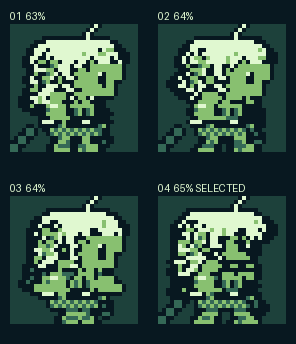
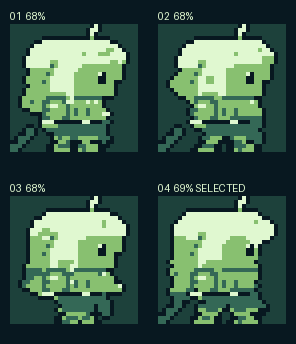
Clean up the 32px knight color planes

diff --git a/sw.js b/sw.js
@@ -1,5 +1,5 @@
 // オフラインで遊べるようにファイルをキャッシュ。更新したら VERSION を上げる
-const VERSION = "mk-v6-k2-sprites-cc4c1e308c3e";
+const VERSION = "mk-v6-k2-sprites-91ed4acbcbe7";
 const FILES = ["./", "index.html", "manifest.webmanifest", "js/sprites.js", "js/audio.js", "js/level.js", "js/game.js",
   "icons/icon-192.png", "icons/icon-512.png", "assets/overrides.json",
   './assets/player_idle.png',

diff --git a/tools/hires_parts.py b/tools/hires_parts.py
@@ -137,6 +137,91 @@ def creature_details(frame, name):
     return result
 
 
+def neighbors(array, pad):
+    padded = np.pad(array, 1, constant_values=pad)
+    return np.stack((padded[1:-1, :-2], padded[1:-1, 2:],
+                     padded[:-2, 1:-1], padded[2:, 1:-1]))
+
+
+def fill_knight_outline(parts, target):
+    """Recover the material under dark source lines; redraw the contour later."""
+    filled = parts.copy()
+    for y, x in zip(*np.nonzero(parts == "O")):
+        window = parts[max(0, y - 2):y + 3, max(0, x - 2):x + 3]
+        options = "HF" if y < 18 else "PCLTS"
+        if y >= 28:
+            options += "K"
+        counts = [np.count_nonzero(window == part) for part in options]
+        if max(counts):
+            filled[y, x] = options[int(np.argmax(counts))]
+        elif target[y, x] in options:
+            filled[y, x] = target[y, x]
+        else:
+            filled[y, x] = "H" if y < 18 else ("C" if y < 24 else "T")
+    return filled
+
+
+def checker_locations(frame):
+    a, b, c, d = frame[:-1, :-1], frame[:-1, 1:], frame[1:, :-1], frame[1:, 1:]
+    return np.argwhere((a > 0) & (b > 0) & (a == d) & (b == c) & (a != b))
+
+
+def remove_checkers(frame, protected):
+    """Merge alternating 2x2 dots, favoring a flat run away from small landmarks."""
+    result = frame.copy()
+    while True:
+        original = checker_locations(result)
+        if not len(original):
+            return result
+        updated = False
+        for y, x in original:
+            before = len(checker_locations(result))
+            if result[y, x] != result[y + 1, x + 1] or result[y, x + 1] != result[y + 1, x]:
+                continue
+            for yy, xx in ((y + 1, x + 1), (y + 1, x), (y, x + 1), (y, x)):
+                if protected[yy, xx]:
+                    continue
+                value = result[yy, xx]
+                replacement = result[y, x + 1] if value == result[y, x] else result[y, x]
+                result[yy, xx] = replacement
+                if len(checker_locations(result)) < before:
+                    updated = True
+                    break
+                result[yy, xx] = value
+        if not updated:
+            return result
+
+
+def smooth_materials(frame, parts, protected):
+    nearby = neighbors(frame, 0)
+    same_part = neighbors(parts, ".") == parts
+    disagrees = ((nearby != frame) & same_part).sum(axis=0)
+    counts = np.stack([((nearby == shade) & same_part).sum(axis=0) for shade in range(1, 5)])
+    majority = counts.argmax(axis=0) + 1
+    smooth = (disagrees >= 2) & (frame != 0) & ~protected
+    return np.where(smooth, majority, frame).astype(np.uint8)
+
+
+def knight_interior(frame):
+    opaque = frame != 0
+    outline = (frame == 4) & np.any(neighbors(frame, 0) == 0, axis=0)
+    return opaque & ~outline
+
+
+def knight_ink(frame, hair, eye):
+    inside = knight_interior(frame)
+    shares_eye = np.any(neighbors(eye, False), axis=0)
+    ink_in_hair = (frame == 4) & hair & inside & ~eye & ~shares_eye
+    shares = np.array([np.count_nonzero(inside & (frame == shade)) for shade in range(1, 5)])
+    return shares / max(1, np.count_nonzero(inside)), int(ink_in_hair.sum())
+
+
+def shade_balance(shares):
+    low, high = np.array([.25, .25, .10, 0]), np.array([.40, .40, .25, .25])
+    excess = np.maximum(low - shares, 0) + np.maximum(shares - high, 0)
+    return max(0, 1 - float(excess.sum()))
+
+
 def knight_details(parts, target, name):
     """Add the small material accents that would otherwise vanish in reduction."""
     work = parts.copy()
@@ -160,9 +245,9 @@ def knight_details(parts, target, name):
     work[work == "E"] = "O"
     work[work == "A"] = "H"
     work[:4] = "."
-    for y, x in ((0, 21), (1, 20), (2, 19), (3, 19)):
+    for y, x in ((0, 21), (1, 21), (1, 20), (2, 20)):
         work[y, x] = "A"
-    work[4, 19] = "H"
+    work[3:5, 20] = "H"
     work[12:15, 22:24] = "E"
     for material in ("P", "C", "T", "B", "L"):
         zone = (yy >= 18) & ((xx < 25) if attacking else True)
@@ -178,35 +263,65 @@ def knight_details(parts, target, name):
         work[:, 27:][work[:, 27:] == "W"] = "."
         work[16:18, 23:32] = "W"
 
+    work = fill_knight_outline(work, target)
+    stray_skin = (work == "F") & (yy < 15) & ((neighbors(work, ".") == "H").sum(axis=0) >= 3)
+    work[stray_skin] = "H"
+    work[(work == "B") & (yy != 24)] = "T"
+    cloth = (yy >= 22) & (yy <= 27) & (xx >= 12) & (xx <= 23)
+    work[cloth & ((target == "T") | ((yy >= 25) & (xx >= 14) & (xx <= 21))) &
+         np.isin(work, ["C", "P", "T"])] = "T"
     frame = np.array([knight.PART_SHADE[p] for p in work.flat], dtype=np.uint8).reshape(work.shape)
+    hair_part = np.isin(work, ["H", "A"])
+    # The lower-left edge of the hair gets a single broad shadow band.
+    frame[(work == "H") & (xx <= 9) & (yy >= 11)] = 2
+    frame[3, 20] = 2
+    armor = np.isin(work, ["P", "C", "L"])
+    light = armor & ~np.isin(np.pad(work, 1, constant_values=".")[:-2, 1:-1], ["P", "C", "L"])
+    frame[light & (xx >= 12) & (yy >= 18) & (yy < 23)] = 1
+    protected = np.isin(work, ["A", "E", "B", "K", "W"])
+    protected[3, 20] = True
+    frame = smooth_materials(frame, work, protected)
     frame[12, 22] = 1
     # Alternating braid links near the back of the head.
     for y, x in ((9, 10), (11, 9), (13, 8)):
         if frame[y - 1:y + 2, x:x + 3].any():
             frame[y:y + 2, x:x + 2] = 2
             frame[y + 1, x] = 3
+            protected[y:y + 2, x:x + 2] = True
     # Rounded pauldron, a polished spot on it, and engraved lines in the breastplate.
-    disk = (xx - 11) ** 2 + (yy - 21) ** 2 <= 7
+    radius = (xx - 11) ** 2 + (yy - 21) ** 2
+    disk = radius <= 7
+    rim = (radius > 7) & (radius <= 12) & (frame != 0)
+    frame[rim] = 3
     frame[disk] = 2
     frame[20, 10:12] = 1
     frame[21, 9] = 3
     for x in (16, 19):
         frame[20:23, x:x + 2] = 2
         frame[21:23, x] = 3
-    # Keep the checker pattern confined to the tunic, even in airborne poses.
+    protected[disk | rim] = True
+    protected[20:23, 16:21] = True
+    collar = (yy == 18) & (xx >= 16) & (xx <= 24) & (frame != 0)
+    frame[collar] = 3
+    protected[collar] = True
+    # Keep the tunic a solid dark plane under the belt.
     waist = (yy >= 25) & (yy <= 27) & (xx >= 10) & (xx <= 23)
-    tunic = (work == "T") & waist
-    if np.count_nonzero(tunic) < 6:
-        tunic = (target == "T") & waist
+    tunic = waist & ((work == "T") | ((target == "T") & (work != ".")))
     frame[tunic] = 3
-    frame[tunic & ((yy + xx) % 2 == 0)] = 2
-    frame[24, 16:21] = 4
+    belt = (yy == 24) & (xx >= 11) & (xx <= 22) & (frame != 0)
+    frame[belt] = 4
     frame[24, 18:20] = 1
+    protected[belt] = True
+    protected[24, 18:20] = True
     if attacking:
         frame[15:19, 23] = 1
+        protected[15:19, 23] = True
     else:
         frame[24, 8:11] = 1
-    return outlined(frame)
+        protected[24, 8:11] = True
+    frame = remove_checkers(outlined(frame), protected)
+    shares, hair_ink = knight_ink(frame, hair_part, work == "E")
+    return frame, shares, hair_ink
 
 
 def score_detail(parts):
@@ -226,7 +341,6 @@ def has_knight_details(frame, attacking):
     eye = frame[12:15, 22:24]
     braid = frame[9:15, 8:12]
     pauldron = frame[19:24, 9:14]
-    chainmail = frame[25:28, 10:24]
     hilt = frame[15:19, 23] if attacking else frame[24, 8:11]
     return all((
         np.count_nonzero(eye == 4) == 5 and np.count_nonzero(eye == 1) == 1,
@@ -234,7 +348,6 @@ def has_knight_details(frame, attacking):
         np.count_nonzero(braid == 3) >= 2 and np.count_nonzero(braid == 2) >= 4,
         np.count_nonzero(pauldron == 2) >= 8 and np.any(pauldron == 1),
         np.all(frame[21:23, [16, 19]] == 3),
-        np.any(chainmail == 2) and np.any(chainmail == 3),
         np.all(frame[24, 18:20] == 1) and np.any(hilt == 1),
     ))
 
@@ -243,7 +356,7 @@ def evaluate(sample, agreement, name, spec, target, thresholds):
     if not agreement:
         return None, {}
     width, height = spec["size"]
-    frames, templates, details = [], [], []
+    frames, templates, details, balances = [], [], [], []
     if sample.shape != (height * 2, width * 2 * len(spec["frames"]), 4):
         return None, {}
     for i in range(len(spec["frames"])):
@@ -257,9 +370,13 @@ def evaluate(sample, agreement, name, spec, target, thresholds):
             overlap = (parts != ".") | (target != ".")
             templates.append(float(weights[(parts == target) & overlap].sum() / weights[overlap].sum()))
             details.append(score_detail(parts))
-            frame = knight_details(parts, target, name)
-            if not has_knight_details(frame, "attack" in name):
+            frame, shares, hair_ink = knight_details(parts, target, name)
+            torso = knight_interior(frame)[18:]
+            torso_dark = np.count_nonzero(torso & (frame[18:] == 4)) / max(1, np.count_nonzero(torso))
+            if (not has_knight_details(frame, "attack" in name) or
+                    max(shares[3], torso_dark) > .25 or hair_ink or len(checker_locations(frame))):
                 return None, {}
+            balances.append(shade_balance(shares))
         else:
             frame = reduce_map(materials(image, name), SHADE_ORDER, 4, 0)
             if name.startswith("t_"):
@@ -272,5 +389,6 @@ def evaluate(sample, agreement, name, spec, target, thresholds):
     scores = grid.score_frames(np.array(frames), agreement, name, scale=spec["scale"])
     if templates:
         scores.pop("reference", None)
-        scores.update(template=float(np.mean(templates)), details=float(np.mean(details)))
+        scores.update(template=float(np.mean(templates)), details=float(np.mean(details)),
+                      balance=float(np.mean(balances)))
     return grid.to_png(np.array(frames)), scores

diff --git a/tools/gen_sprites.py b/tools/gen_sprites.py
@@ -422,14 +422,16 @@ def update_knight_preview(sprites):
 
 
 def remember_baseline(sprites):
-    baseline = RAW / "_baseline_hires"
+    baseline = RAW / "_baseline_knight_cleanup"
     baseline.mkdir(exist_ok=True)
     snapshot = PREVIEW / "compare.png"
     stored = {}
     if snapshot.exists():
         with Image.open(snapshot) as previous:
-            stored = json.loads(previous.info.get("hires_baseline", "{}"))
+            stored = json.loads(previous.info.get("knight_cleanup_before", "{}"))
     for name in sprites:
+        if not name.startswith("player_"):
+            continue
         source = ASSETS / f"{name}.png"
         backup = baseline / source.name
         spec = sprites[name]
@@ -437,28 +439,29 @@ def remember_baseline(sprites):
             continue
         if name in stored:
             decode_png(stored[name]).save(backup)
-        elif source.is_file() and read_image(source).height * 2 == spec["size"][1]:
+        elif source.is_file() and read_image(source).height == spec["size"][1]:
             copyfile(source, backup)
 
 
 def update_comparison(sprites):
     panels = []
-    before = RAW / "_baseline_hires"
-    if not all((before / f"{name}.png").is_file() for name in sprites):
+    knight_specs = {name: spec for name, spec in sprites.items() if name.startswith("player_")}
+    before = RAW / "_baseline_knight_cleanup"
+    if not all((before / f"{name}.png").is_file() for name in knight_specs):
         return
     baseline = {}
-    for folder, label, zoom in ((before, "BEFORE  |  16x enlargement", 16),
-                                (ASSETS, "AFTER  |  8x enlargement", 8)):
+    zoom = 8
+    for folder, label in ((before, "BEFORE  |  32px knight"),
+                          (ASSETS, "AFTER  |  32px knight")):
         items = []
-        for name, spec in sprites.items():
+        for name, spec in knight_specs.items():
             path = folder / f"{name}.png"
             if not path.is_file():
                 continue
             sprite = read_image(path)
             if folder == before:
                 baseline[name] = encoded_png(sprite)
-            if sprite.height * zoom != spec["size"][1] * 8:
-                return  # A partial run may still have legacy images alongside the new assets.
+            validate_sprite(sprite, spec)
             sprite = Image.fromarray(grid.PALETTE[grid.classify(np.asarray(sprite), (1, 2, 3, 4))])
             items.append((name, sprite.resize((sprite.width * zoom, sprite.height * zoom), Image.Resampling.NEAREST)))
         if not items:
@@ -483,7 +486,7 @@ def update_comparison(sprites):
     output.paste(panels[0], (0, 0))
     output.paste(panels[1], (0, panels[0].height))
     metadata = PngImagePlugin.PngInfo()
-    metadata.add_text("hires_baseline", json.dumps(baseline, separators=(",", ":")), zip=True)
+    metadata.add_text("knight_cleanup_before", json.dumps(baseline, separators=(",", ":")), zip=True)
     output.save(PREVIEW / "compare.png", pnginfo=metadata)
 
 
@@ -616,10 +619,10 @@ def main():
                 if selected is None:
                     raise ValueError(f"Candidate {manual} does not exist")
             index, png, scores = selected
-            save_candidates(name, spec, candidates, index, manual)
             if png is None:
-                raise ValueError(f"Candidate {index} has an empty frame")
+                raise ValueError(f"Candidate {index} failed the frame or artwork checks")
             validate_sprite(png, spec)
+            save_candidates(name, spec, candidates, index, manual)
             png.save(SOURCE / f"{name}.png")
             (folder / "selection.json").write_text(
                 json.dumps({"candidate": index, "manual": manual, "scores": scores}, indent=2) + "\n",
@@ -649,7 +652,7 @@ def main():
     update_previews(sprites)
     if any(name.startswith("player_") and sprites[name].get("scale") != 2 for name in written):
         update_knight_preview(sprites)
-    if written:
+    if any(name.startswith("player_") for name in written):
         update_comparison(sprites)
     if failed:
         print("Failed sprites: " + ", ".join(failed), file=sys.stderr)

diff --git a/README.md b/README.md
@@ -40,7 +40,7 @@ assets/overrides.json 画像差し替えの設定
 ## AI生成の絵に差し替える方法
 同梱の PNG 24 種は起動時に `assets/overrides.json` から読み込まれます。差し替えがない絵は `js/sprites.js` のドット絵を使います。
 
-同梱素材は組み込みの画像生成機能で制作しました。主人公は騎士の参照画像から立ち絵を作り、採用した立ち絵を参照して各ポーズを展開しています。[新旧比較](assets/preview/compare.png)では、旧素材を16倍、新素材を8倍にしてゲーム上の同じ大きさで表示しています。
+同梱素材は組み込みの画像生成機能で制作しました。主人公は騎士の参照画像から立ち絵を作り、採用した立ち絵を参照して各ポーズを展開しています。[主人公の仕上げ前後の比較](assets/preview/compare.png)は、前後とも32×32のフレームを8倍で表示しています。
 
 再生成する場合は `OPENAI_API_KEY` を環境変数に設定し、リポジトリのルートで実行します。
 
